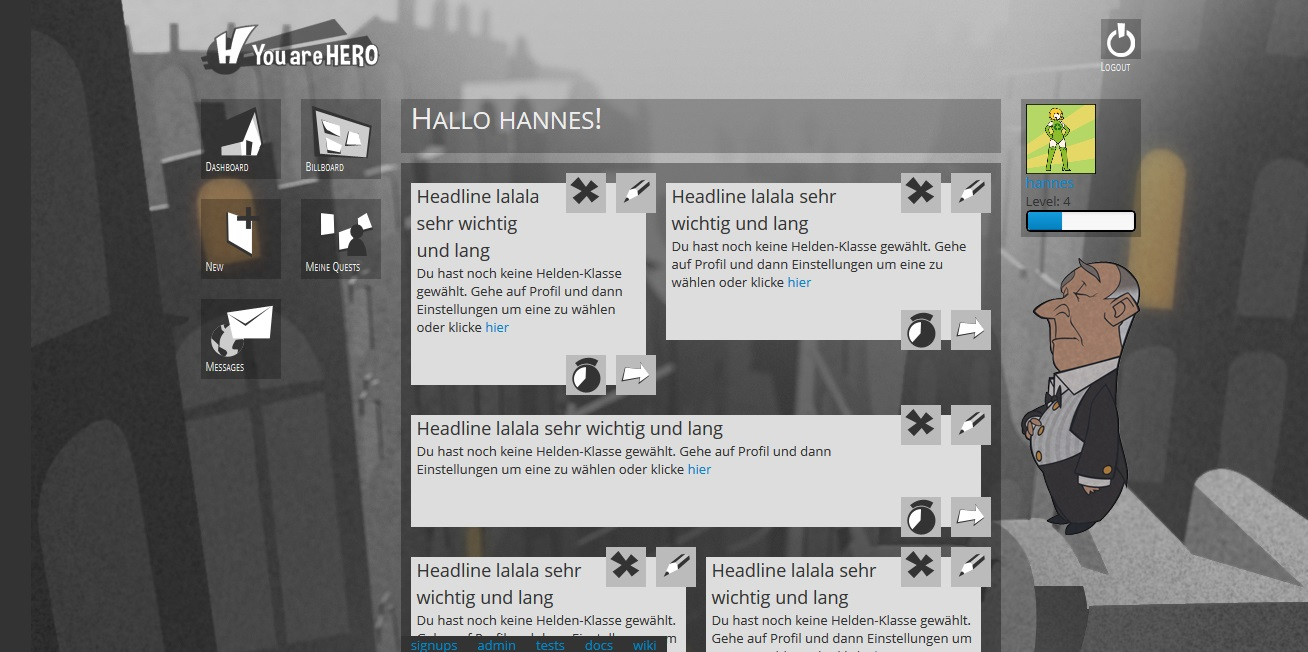
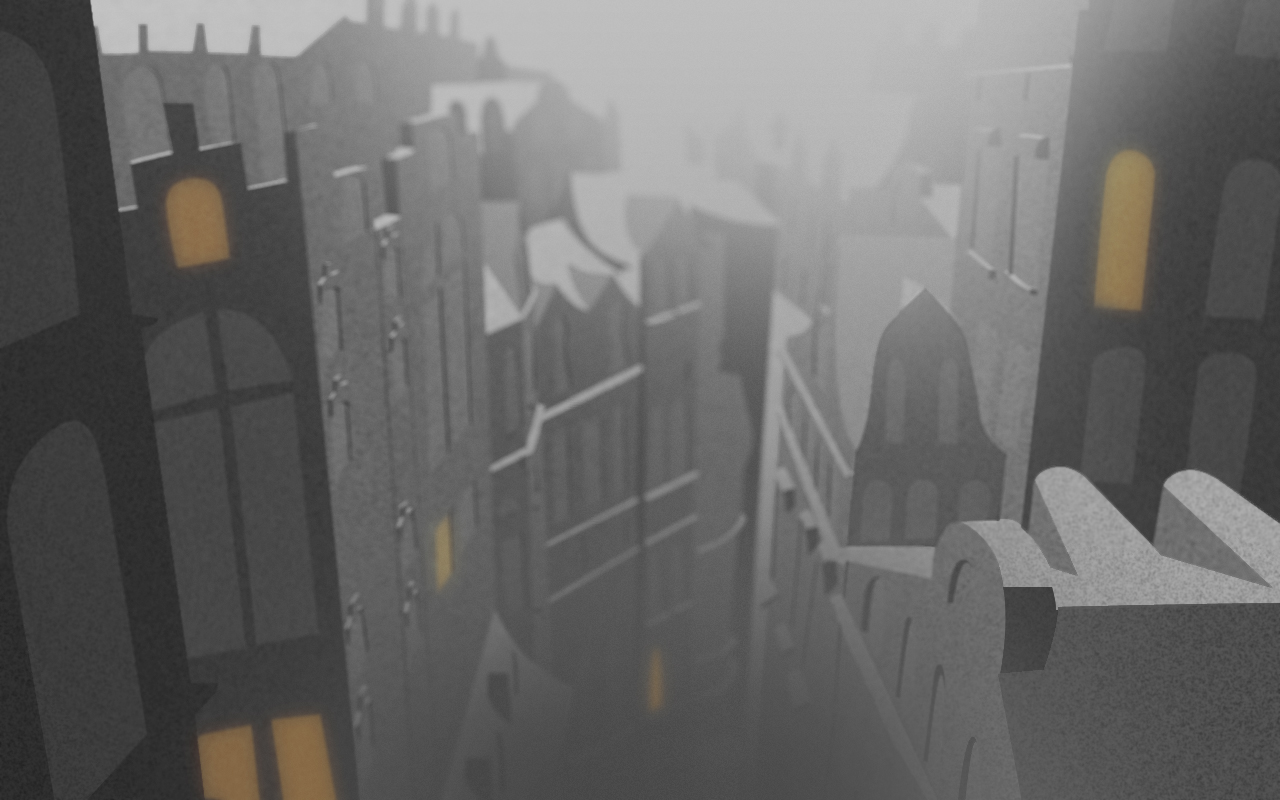
bg fixed

diff --git a/src/herobase/static/bootstrap/css/bootstrap.css b/src/herobase/static/bootstrap/css/bootstrap.css
@@ -140,11 +140,11 @@ body {
   background-color: #0b1923;
 }
 a {
-  color: #aaaaaa;
+  color: #777777;
   text-decoration: none;
 }
 a:hover {
-  color: #848484;
+  color: #040404;
   text-decoration: underline;
 }
 .row {
@@ -1960,7 +1960,7 @@ table .span24 {
 .dropdown-menu .active > a:hover {
   color: #ffffff;
   text-decoration: none;
-  background-color: #aaaaaa;
+  background-color: #777777;
 }
 .open {
   *z-index: 1000;
@@ -2217,18 +2217,18 @@ button.close {
   border-color: rgba(0, 0, 0, 0.1) rgba(0, 0, 0, 0.1) rgba(0, 0, 0, 0.25);
 }
 .btn-primary {
-  background-color: #aaaaaa;
-  background-image: -moz-linear-gradient(top, #aaaaaa, #aaaaaa);
-  background-image: -ms-linear-gradient(top, #aaaaaa, #aaaaaa);
-  background-image: -webkit-gradient(linear, 0 0, 0 100%, from(#aaaaaa), to(#aaaaaa));
-  background-image: -webkit-linear-gradient(top, #aaaaaa, #aaaaaa);
-  background-image: -o-linear-gradient(top, #aaaaaa, #aaaaaa);
-  background-image: linear-gradient(top, #aaaaaa, #aaaaaa);
+  background-color: #777777;
+  background-image: -moz-linear-gradient(top, #777777, #777777);
+  background-image: -ms-linear-gradient(top, #777777, #777777);
+  background-image: -webkit-gradient(linear, 0 0, 0 100%, from(#777777), to(#777777));
+  background-image: -webkit-linear-gradient(top, #777777, #777777);
+  background-image: -o-linear-gradient(top, #777777, #777777);
+  background-image: linear-gradient(top, #777777, #777777);
   background-repeat: repeat-x;
-  filter: progid:DXImageTransform.Microsoft.gradient(startColorstr='#aaaaaa', endColorstr='#aaaaaa', GradientType=0);
-  border-color: #aaaaaa #aaaaaa #848484;
+  filter: progid:DXImageTransform.Microsoft.gradient(startColorstr='#777777', endColorstr='#777777', GradientType=0);
+  border-color: #777777 #777777 #515151;
   border-color: rgba(0, 0, 0, 0.1) rgba(0, 0, 0, 0.1) rgba(0, 0, 0, 0.25);
-  *background-color: #aaaaaa;
+  *background-color: #777777;
   /* Darken IE7 buttons by default so they stand out more given they won't have borders */
 
   filter: progid:DXImageTransform.Microsoft.gradient(enabled = false);
@@ -2238,12 +2238,12 @@ button.close {
 .btn-primary.active,
 .btn-primary.disabled,
 .btn-primary[disabled] {
-  background-color: #aaaaaa;
-  *background-color: #9d9d9d;
+  background-color: #777777;
+  *background-color: #6a6a6a;
 }
 .btn-primary:active,
 .btn-primary.active {
-  background-color: #919191 \9;
+  background-color: #5e5e5e \9;
 }
 .btn-warning {
   background-color: #ffa45f;
@@ -2530,7 +2530,7 @@ input[type="submit"].btn.btn-mini {
   background-color: #e6e6e6;
 }
 .btn-group.open .btn-primary.dropdown-toggle {
-  background-color: #aaaaaa;
+  background-color: #777777;
 }
 .btn-group.open .btn-warning.dropdown-toggle {
   background-color: #ff8a31;
@@ -2676,7 +2676,7 @@ input[type="submit"].btn.btn-mini {
 .nav-list > .active > a:hover {
   color: #ffffff;
   text-shadow: 0 -1px 0 rgba(0, 0, 0, 0.2);
-  background-color: #aaaaaa;
+  background-color: #777777;
 }
 .nav-list [class^="icon-"] {
   margin-right: 2px;
@@ -2754,7 +2754,7 @@ input[type="submit"].btn.btn-mini {
 .nav-pills > .active > a,
 .nav-pills > .active > a:hover {
   color: #ffffff;
-  background-color: #aaaaaa;
+  background-color: #777777;
 }
 .nav-stacked > li {
   float: none;
@@ -2803,14 +2803,14 @@ input[type="submit"].btn.btn-mini {
 }
 .nav-tabs .dropdown-toggle .caret,
 .nav-pills .dropdown-toggle .caret {
-  border-top-color: #aaaaaa;
-  border-bottom-color: #aaaaaa;
+  border-top-color: #777777;
+  border-bottom-color: #777777;
   margin-top: 6px;
 }
 .nav-tabs .dropdown-toggle:hover .caret,
 .nav-pills .dropdown-toggle:hover .caret {
-  border-top-color: #848484;
-  border-bottom-color: #848484;
+  border-top-color: #040404;
+  border-bottom-color: #040404;
 }
 .nav-tabs .active .dropdown-toggle .caret,
 .nav-pills .active .dropdown-toggle .caret {
@@ -2980,17 +2980,17 @@ input[type="submit"].btn.btn-mini {
   font-size: 20px;
   font-weight: 200;
   line-height: 1;
-  color: #aaaaaa;
+  color: #777777;
 }
 .navbar .navbar-text {
   margin-bottom: 0;
   line-height: 40px;
 }
 .navbar .navbar-link {
-  color: #aaaaaa;
+  color: #777777;
 }
 .navbar .navbar-link:hover {
-  color: #848484;
+  color: #040404;
 }
 .navbar .btn,
 .navbar .btn-group {
@@ -3125,7 +3125,7 @@ input[type="submit"].btn.btn-mini {
   float: none;
   padding: 9px 10px 11px;
   line-height: 19px;
-  color: #aaaaaa;
+  color: #777777;
   text-decoration: none;
   text-shadow: 0 -1px 0 rgba(0, 0, 0, 0.25);
 }
@@ -3141,12 +3141,12 @@ input[type="submit"].btn.btn-mini {
 }
 .navbar .nav > li > a:hover {
   background-color: transparent;
-  color: #848484;
+  color: #040404;
   text-decoration: none;
 }
 .navbar .nav .active > a,
 .navbar .nav .active > a:hover {
-  color: #848484;
+  color: #040404;
   text-decoration: none;
   background-color: #ffffff;
 }
@@ -3731,7 +3731,7 @@ input[type="submit"].btn.btn-mini {
   box-shadow: 0 1px 1px rgba(0, 0, 0, 0.075);
 }
 a.thumbnail:hover {
-  border-color: #aaaaaa;
+  border-color: #777777;
   -webkit-box-shadow: 0 1px 4px rgba(0, 105, 214, 0.25);
   -moz-box-shadow: 0 1px 4px rgba(0, 105, 214, 0.25);
   box-shadow: 0 1px 4px rgba(0, 105, 214, 0.25);

diff --git a/src/herobase/static/less/custom.less b/src/herobase/static/less/custom.less
@@ -24,6 +24,14 @@ h1, h2, h3, h4, h5, h6 {
 body {
 //  padding-top: 20px;
   font-family: 'Open Sans', sans-serif;
+}
+#background {
+  width:  100%;
+  height: 100%;
+  position: fixed;
+  top: 0;
+  left: 0;
+  z-index: -1000;
   background: url("../img/city.jpg") no-repeat scroll 50% 0 #333;
 }
 

diff --git a/src/herobase/static/css/custom.css b/src/herobase/static/css/custom.css
@@ -38,6 +38,14 @@ h6 {
 }
 body {
   font-family: 'Open Sans', sans-serif;
+}
+#background {
+  width: 100%;
+  height: 100%;
+  position: fixed;
+  top: 0;
+  left: 0;
+  z-index: -1000;
   background: url("../img/city.jpg") no-repeat scroll 50% 0 #333333;
 }
 .sidebar-left {

diff --git a/src/herobase/static/bootstrap/less/variables.less b/src/herobase/static/bootstrap/less/variables.less
@@ -62,8 +62,8 @@
 
 // Links
 // -------------------------
-@linkColor:             #aaa;
-@linkColorHover:        darken(@linkColor, 15%);
+@linkColor:             #777;
+@linkColorHover:        darken(@linkColor, 45%);
 
 
 // Typography

diff --git a/src/herobase/templates/herobase/layout/base.html b/src/herobase/templates/herobase/layout/base.html
@@ -43,6 +43,7 @@
 </head>
 
 <body>
+    <div id="background"></div>
     <div id="layout-container" class="container">
         {% block site_header_container %}
             <div id="site-header-container" class="row">
